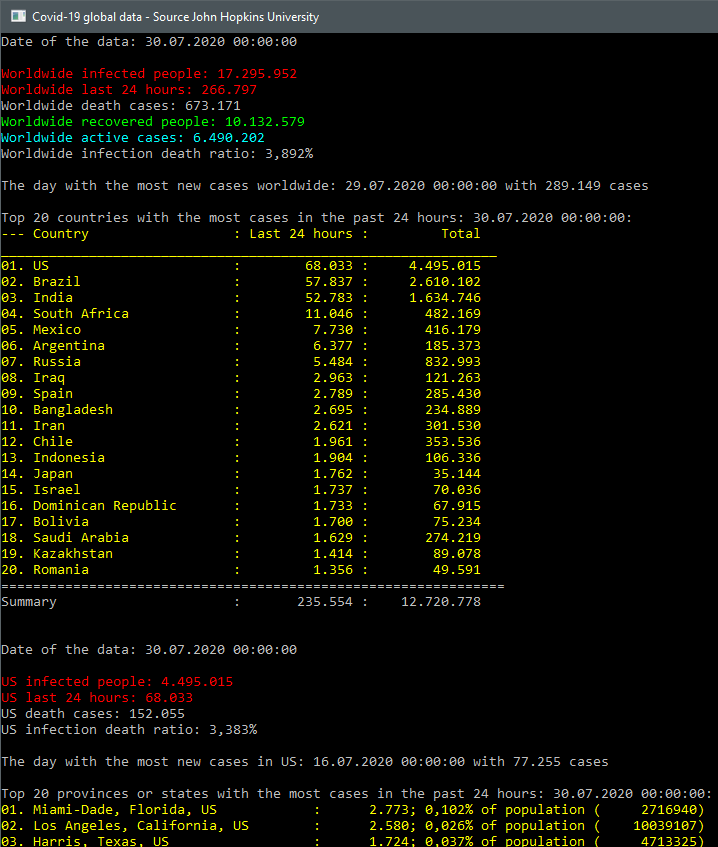
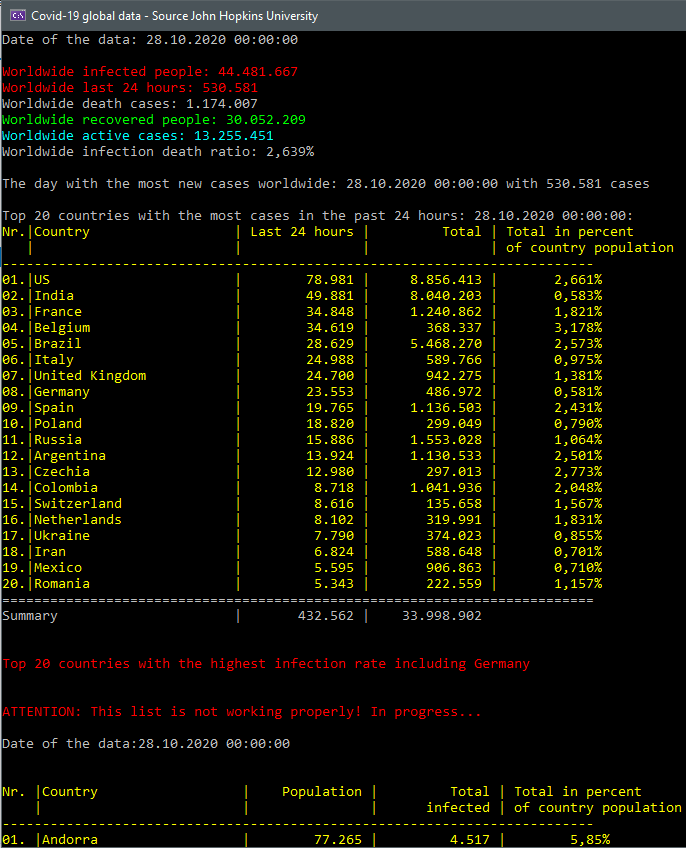
Fixed the parsing of changed data @JHU, now we will find data with decimal points
Add CultureInfo to the ParserShowGlobalData
Add Covid19GlobalMerged class. This will not work properly
Changed Screenshot
Changed Program.cs in the CLI Project

Changed region(s): [[0.0, 0.0, 1.0, 1.0]]

diff --git a/Covid19LibCLI/Program.cs b/Covid19LibCLI/Program.cs
@@ -1,4 +1,5 @@
 using System;
+using System.Collections.Generic;
 using System.IO;
 using System.Linq;
 using System.Runtime.CompilerServices;
@@ -10,6 +11,16 @@ namespace Covid19LibCLI
 {
     class Program
     {
+        private static List<Covid19Global> confirmedGlobal;
+        private static List<Covid19Global> deathsGlobal;
+        private static List<Covid19Global> recoveredGlobal;
+
+        private static List<Covid19US> confirmedUS;
+        private static List<Covid19US> deathsUS;
+
+        private static List<UidIsoFips> fipsList;
+        private static List<Covid19GlobalMerged> confirmedGlobalMerged;
+
         private static void Main(string[] args)
         {
             //The Project to parse and merge the data is using the settings.cs file in the base path of project Covid19Lib
@@ -21,6 +32,28 @@ namespace Covid19LibCLI
                 return;
             }
 
+            /*
+             * Official global data
+             */
+            confirmedGlobal = Covid19Global.ParseAsync(Settings.TimeSeriesConfirmedGlobalFile).Result;
+            deathsGlobal = Covid19Global.ParseAsync(Settings.TimeSeriesDeathsGlobalFile).Result;
+            recoveredGlobal = Covid19Global.ParseAsync(Settings.TimeSeriesRecoveredGlobalFile).Result;
+
+            /*
+             * Official us data
+             */
+            confirmedUS = Covid19US.ParseConfirmedAsync(Settings.TimeSeriesConfirmedUSFile).Result;
+            deathsUS = Covid19US.ParseDeathAsync(Settings.TimeSeriesDeathsUSFile).Result;
+            //var recoveredUS = Covid19Global.ParseAsync(Settings.TimeSeriesRecoveredGlobalFile).Result;
+
+            //Parsing the UidIsoFips data to collect the complete population of all countrys
+            //All the regions and countries. This will be more as 3900 results.
+            //Later we count all regions population of a country. This will include "Unknow" regions, but they are often 0.
+            fipsList = UidIsoFips.ParseAsync(Settings.UidIsoFipsFile).Result;
+
+            //Merging the Global Data and the UIDFipsData
+            confirmedGlobalMerged = Covid19GlobalMerged.CreateCovid19GlobalMergedList(confirmedGlobal, fipsList);
+
             /******************************************
              * Here is the part for the parser samples
              * Uncomment the lines for an output
@@ -29,7 +62,8 @@ namespace Covid19LibCLI
             Console.Title = "Covid-19 global data - Source John Hopkins University";
 
             ParserShowGlobalData();
-            ParserShowUSData();
+            ParserShowGlobalPercentageOfPopulation();
+            //ParserShowUSData();
             //ParserShowUidFipsData();
 
             /******************************************
@@ -45,18 +79,6 @@ namespace Covid19LibCLI
 
         private static void ParserShowGlobalData()
         {
-            /*
-             * Official global data
-             */
-            var confirmedGlobal = Covid19Global.ParseAsync(Settings.TimeSeriesConfirmedGlobalFile).Result;
-            var deathsGlobal = Covid19Global.ParseAsync(Settings.TimeSeriesDeathsGlobalFile).Result;
-            var recoveredGlobal = Covid19Global.ParseAsync(Settings.TimeSeriesRecoveredGlobalFile).Result;
-
-            //Parsing the UidIsoFips data to collect the complete population of all countrys
-            //All the regions and countries. This will be more as 3900 results.
-            //Later we count all regions population of a country. This will include "Unknow" regions, but they are often 0.
-            var fipsList = UidIsoFips.ParseAsync(Settings.UidIsoFipsFile).Result;
-
             //Global data of confirmed Covid-19 cases in Germany; this line is for demonstration only, without an output
             var germanOnly = confirmedGlobal.Where(x => x.CountryOrRegion == "Germany").ToList();
 
@@ -111,7 +133,7 @@ namespace Covid19LibCLI
             var c = 0;
             Console.ForegroundColor = ConsoleColor.Yellow;
             Console.WriteLine($"Nr.|{"Country",-25}| {"Last 24 hours",13} | {"Total",13} | {"Total in percent",11}");
-            Console.WriteLine($"   |{"",-25}| {"",13} | {"",13} | {"of country population", 11}");
+            Console.WriteLine($"   |{"",-25}| {"",13} | {"",13} | {"of country population",11}");
             //Console.WriteLine($"______________________________________________________________");
             Console.WriteLine("--------------------------------------------------------------------------");
             foreach (var top in top20Today)
@@ -119,24 +141,70 @@ namespace Covid19LibCLI
                 c++;
                 //Now we will calculate the population of each country
                 var population = fipsList.FindAll(x => x.CountryOrRegion == top.CountryOrRegion && x.Code3 == x.UID).Sum(y => y.Population != "" ? int.Parse(y.Population) : 0);
-                var top20populationPercentage = $"{(top.DateValues.Last().NumbersComplete * 100d / population):N3}";
-                Console.WriteLine($"{c:00}.|{top.CountryOrRegion,-25}| {top.Last24Hours,13:N0} | {top.DateValues.Last().NumbersComplete,13:N0} | {top20populationPercentage, 11:N0}");
+                var top20populationPercentage = $"{top.DateValues.Last().NumbersComplete * 100d / population:N3}";
+                Console.WriteLine($"{c:00}.|{top.CountryOrRegion,-25}| {top.Last24Hours,13:N0} | {top.DateValues.Last().NumbersComplete,13:N0} | {top20populationPercentage,11:N0}%");
             }
             Console.ResetColor();
             Console.WriteLine("==========================================================================");
             var sumTop20Today = $"{ top20Today.Sum(x => x.Last24Hours):N0}";
             Console.WriteLine($"{"Summary",-29}| {sumTop20Today,13} | {top20Today.Sum(x => x.DateValues.Last().NumbersComplete),13:N0}\n\n");
+            Console.ResetColor();
+        }
+
+        private static void ParserShowGlobalPercentageOfPopulation()
+        {
+            //Hier berechnen wir wieviele Prozent der Bevölkerung aller Länder schon infiziert waren. Eine Mehrfachinfektion einer Person kann aber nicht ausgeschlossen werden.
+            var sortedGlobalMergeList = confirmedGlobalMerged.Where(y => !double.IsInfinity(y.PercentageOfPopulation)).OrderByDescending(x => x.PercentageOfPopulation).ToList();
+            var sortedGlobalMergeListTop20 = sortedGlobalMergeList.Take(20);
+
+            Console.ForegroundColor = ConsoleColor.Red;
+            Console.WriteLine("Top 20 countries with the highest infection rate including Germany\n\n");
+            Console.WriteLine("ATTENTION: This list is not working properly! In progress...\n");
+            Console.ResetColor();
+            Console.WriteLine($"Date of the data:{sortedGlobalMergeList.Find(x => !x.IsHeader)?.DateValues.Last().Date}\n\n");
+            Console.ForegroundColor = ConsoleColor.Yellow;
+            Console.WriteLine($"Nr. |{"Country",-25}| {"Population",13} | {"Total",13} | {"Total in percent",11}");
+            Console.WriteLine($"    |{"",-25}| {"",13} | {"infected",13} | {"of country population",11}");
+            //Console.WriteLine($"______________________________________________________________");
+            Console.WriteLine("--------------------------------------------------------------------------");
+            int c = 0;
+            int sumPopulation = 0;
+            int sumInfected = 0;
+            foreach (var country in sortedGlobalMergeListTop20)
+            {
+                c++;
+                sumPopulation += country.Population;
+                sumInfected += country.DateValues.Last().NumbersComplete;
+                Console.WriteLine($"{c:00}. |{country.CountryOrRegion,-25}| {country.Population,13:N0} | {country.DateValues.Last().NumbersComplete,13:N0} | {country.PercentageOfPopulation,11:N2}%");
+            }
+
+            Console.WriteLine($"..  |{"",-25}| {"",13:N0} | {"",13:N0} | {"",11:N2}");
+            c = 0;
+            var lastIndex = sortedGlobalMergeList.Count - 1;
+            foreach (var country in sortedGlobalMergeList)
+            {
+                c++;
+                if (country.CountryOrRegion == "Germany")
+                {
+                    sumPopulation += country.Population;
+                    sumInfected += country.DateValues.Last().NumbersComplete;
+                    Console.WriteLine($"{c:00}. |{country.CountryOrRegion,-25}| {country.Population,13:N0} | {country.DateValues.Last().NumbersComplete,13:N0} | {country.PercentageOfPopulation,11:N2}%");
+                }
+                if (c == lastIndex)
+                {
+                    sumPopulation += country.Population;
+                    sumInfected += country.DateValues.Last().NumbersComplete;
+                    Console.WriteLine($"..  |{"",-25}| {"",13:N0} | {"",13:N0} | {"",11:N2}");
+                    Console.WriteLine($"{c:00}.|{country.CountryOrRegion,-25}| {country.Population,13:N0} | {country.DateValues.Last().NumbersComplete,13:N0} | {country.PercentageOfPopulation,11:N2}%");
+                }
+            }
+            Console.ResetColor();
+            Console.WriteLine("==========================================================================");
+            Console.WriteLine($"{"Summary",-30}| {sumPopulation,13:N0} | {sumInfected,13:N0}\n\n");
         }
 
         private static void ParserShowUSData()
         {
-            /*
-             * Official global data
-             */
-            var confirmedUS = Covid19US.ParseConfirmedAsync(Settings.TimeSeriesConfirmedUSFile).Result;
-            var deathsUS = Covid19US.ParseDeathAsync(Settings.TimeSeriesDeathsUSFile).Result;
-            //var recoveredUS = Covid19Global.ParseAsync(Settings.TimeSeriesRecoveredGlobalFile).Result;
-
             //Summary all the most current date in "DateValues". So we will get the summary of all global infected people.
             //With the x.DateValues.Last() function, we will get the most current date.
             var confirmedCases = confirmedUS.Where(y => !y.IsHeader).Sum(x => x.DateValues.Last().NumbersComplete);

diff --git a/Covid19Lib/Parser/TimeSeries/Covid19Global.cs b/Covid19Lib/Parser/TimeSeries/Covid19Global.cs
@@ -4,6 +4,7 @@ using System;
 using System.Collections;
 using System.Collections.Generic;
 using System.Diagnostics.CodeAnalysis;
+using System.Globalization;
 using System.Linq;
 using System.Net.Http.Headers;
 using System.Text;
@@ -19,37 +20,37 @@ namespace Covid19Lib.Parser.TimeSeries
         /// <summary>
         /// The first row is always a header, all other rows are the values.
         /// </summary>
-        public bool IsHeader { get; private set; }
+        public bool IsHeader { get; set; }
 
         /// <summary>
         /// Province, state or dependency name.
         /// </summary>
-        public string ProvinceOrState { get; private set; }
+        public string ProvinceOrState { get; set; }
 
         /// <summary>
         /// Country, region or sovereignty name.
         /// The names of locations included on the Website correspond with the official designations used by the U.S. Department of State.
         /// </summary>
-        public string CountryOrRegion { get; private set; }
+        public string CountryOrRegion { get; set; }
 
         /// <summary>
         /// Dot locations on the dashboard. All points (except for Australia) shown on the map are based on geographic centroids,
         /// and are not representative of a specific address, building or any location at a spatial scale finer than a province/state.
         /// Australian dots are located at the centroid of the largest city in each state.
         /// </summary>
-        public string Latitude { get; private set; }
+        public string Latitude { get; set; }
 
         /// <summary>
         /// Dot locations on the dashboard. All points (except for Australia) shown on the map are based on geographic centroids,
         /// and are not representative of a specific address, building or any location at a spatial scale finer than a province/state.
         /// Australian dots are located at the centroid of the largest city in each state.
         /// </summary>
-        public string Longitude { get; private set; }
+        public string Longitude { get; set; }
 
         /// <summary>
         /// The date if <code><seealso cref="IsHeader"/> = true</code>otherwise the number of cases.
         /// </summary>
-        public List<DateValue> DateValues { get; private set; }
+        public List<DateValue> DateValues { get; set; }
 
         /// <summary>
         /// This will calculate the cases of the last 24 hours. The calulation is the summary of current day - the summary of the day before.
@@ -105,13 +106,13 @@ namespace Covid19Lib.Parser.TimeSeries
                                 if (currentRow == 1)
                                 {
                                     //In the header row this is the date.
-                                    newConfirmedGlobal.DateValues.Add(new DateValue { Date = DateTime.Parse(row[i], System.Globalization.CultureInfo.InvariantCulture) });
+                                    newConfirmedGlobal.DateValues.Add(new DateValue { Date = DateTime.Parse(row[i], CultureInfo.InvariantCulture) });
                                 }
                                 else
                                 {
                                     //And here we will bring both together
                                     //So the first date is, in the header row, the first zero based entry of DateValues.
-                                    var numberOfCasesInRow = int.Parse(row[i] ?? "0");
+                                    var numberOfCasesInRow = int.Parse(row[i] ?? "0", NumberStyles.Any, new CultureInfo("en-US"));
                                     newConfirmedGlobal.DateValues.Add(new DateValue { Date = listOfConfirmedGlobal[0].DateValues[i - 4].Date, NumbersComplete = numberOfCasesInRow, NumbersLast24Hours = numberOfCasesInRow - numbersLastDay });
                                     numbersLastDay = numberOfCasesInRow;
                                 }

diff --git a/Covid19Lib/Parser/TimeSeries/Covid19US.cs b/Covid19Lib/Parser/TimeSeries/Covid19US.cs
@@ -4,6 +4,7 @@ using System;
 using System.Collections;
 using System.Collections.Generic;
 using System.Diagnostics.CodeAnalysis;
+using System.Globalization;
 using System.Linq;
 using System.Net.Http.Headers;
 using System.Text;
@@ -154,13 +155,13 @@ namespace Covid19Lib.Parser.TimeSeries
                                 if (currentRow == 1)
                                 {
                                     //In the header row this is the date.
-                                    newConfirmedGlobal.DateValues.Add(new DateValue { Date = DateTime.Parse(row[i], System.Globalization.CultureInfo.InvariantCulture) });
+                                    newConfirmedGlobal.DateValues.Add(new DateValue { Date = DateTime.Parse(row[i], CultureInfo.InvariantCulture) });
                                 }
                                 else
                                 {
                                     //And here we will bring both together
                                     //So the first date is, in the header row, the first zero based entry of DateValues.
-                                    var numberOfCasesInRow = int.Parse(row[i] ?? "0");
+                                    var numberOfCasesInRow = int.Parse(row[i] ?? "0", NumberStyles.Any, new CultureInfo("en-US"));
                                     newConfirmedGlobal.DateValues.Add(new DateValue { Date = listOfConfirmedGlobal[0].DateValues[i - 11].Date, NumbersComplete = numberOfCasesInRow, NumbersLast24Hours = numberOfCasesInRow - numbersCurrentDay });
                                     numbersCurrentDay = numberOfCasesInRow;
                                 }
@@ -234,13 +235,13 @@ namespace Covid19Lib.Parser.TimeSeries
                                 if (currentRow == 1)
                                 {
                                     //In the header row are this the dates.
-                                    newConfirmedGlobal.DateValues.Add(new DateValue { Date = DateTime.Parse(row[i], System.Globalization.CultureInfo.InvariantCulture) });
+                                    newConfirmedGlobal.DateValues.Add(new DateValue { Date = DateTime.Parse(row[i], CultureInfo.InvariantCulture) });
                                 }
                                 else
                                 {
                                     //And here we will bring both together
                                     //So the first date is, in the header row, the first zero based entry of DateValues.
-                                    var numberOfCasesInRow = int.Parse(row[i] ?? "0");
+                                    var numberOfCasesInRow = int.Parse(row[i] ?? "0", NumberStyles.Any, new CultureInfo("en-US"));
                                     newConfirmedGlobal.DateValues.Add(new DateValue { Date = listOfConfirmedGlobal[0].DateValues[i - 12].Date, NumbersComplete = numberOfCasesInRow, NumbersLast24Hours = numberOfCasesInRow - numbersCurrentDay });
                                     numbersCurrentDay = numberOfCasesInRow;
                                 }
@@ -256,6 +257,10 @@ namespace Covid19Lib.Parser.TimeSeries
                     throw;
                 }
                 catch (ArgumentNullException)
+                {
+                    throw;
+                }
+                catch (System.FormatException)
                 {
                     throw;
                 }

diff --git a/Covid19Lib/Parser/Covid19GlobalMerged.cs b/Covid19Lib/Parser/Covid19GlobalMerged.cs
@@ -1,0 +1,72 @@
+using Covid19Lib.Parser.TimeSeries;
+using System;
+using System.Collections.Generic;
+using System.Linq;
+using System.Text;
+using System.Threading.Tasks;
+
+namespace Covid19Lib.Parser
+{
+    /// <summary>
+    /// This class is merging the GlobalData with the UidIsoFips data.
+    /// </summary>
+    public class Covid19GlobalMerged: Covid19Global
+    {
+        /// <summary>
+        /// The population of a Country or Region
+        /// </summary>
+        public int Population { get; set; }
+
+        /// <summary>
+        /// The infected population in percent.
+        /// </summary>
+        public double PercentageOfPopulation { get { return DateValues.Last().NumbersComplete * 100d / Population; } }
+
+        internal Covid19GlobalMerged() { }
+
+        /// <summary>
+        /// This will create a List of all countrys. This is merging the global data with the UidfipsList. At this time, this method works wrong. So keep in patient.
+        /// </summary>
+        /// <param name="covid19GlobalList"></param>
+        /// <param name="uidIsoFipsList"></param>
+        /// <returns></returns>
+        public static List<Covid19GlobalMerged> CreateCovid19GlobalMergedList(List<Covid19Global> covid19GlobalList, List<UidIsoFips> uidIsoFipsList)
+        {
+            if (covid19GlobalList == null)
+                throw new ArgumentNullException(nameof(covid19GlobalList), "Can't be null");
+
+            if (uidIsoFipsList == null)
+                throw new ArgumentNullException(nameof(uidIsoFipsList), "Can't be null");
+
+            var result = new List<Covid19GlobalMerged>();
+
+            foreach(var covid19Global in covid19GlobalList)
+            {
+                //dynamic convertion of the properties from the baseclass (Covid19Global) to this class (Covid19GlobalMerged)
+                var rowResult = new Covid19GlobalMerged();
+
+                foreach(var prop in covid19Global.GetType().GetProperties())
+                {
+                    var propInfo = rowResult.GetType().GetProperty(prop.Name);
+                    if(propInfo.CanWrite)
+                    {
+                        var propValue = prop.GetValue(covid19Global, null);
+                        propInfo.SetValue(rowResult, propValue, null);
+                    }
+                }
+
+                rowResult.Population = uidIsoFipsList.FindAll(x => x.CountryOrRegion == rowResult.CountryOrRegion && x.Code3 == x.UID).Sum(y => y.Population != "" ? int.Parse(y.Population) : 0);
+
+                if(covid19Global.CountryOrRegion == "Canada")
+                {
+                    //Here we are, and I have to check the result.. Why the canadian infected people are 0?
+                    //Thats the reason why this method works wrong!
+                }
+
+                result.Add(rowResult);
+            }
+
+            return result;
+        }
+    }
+}
